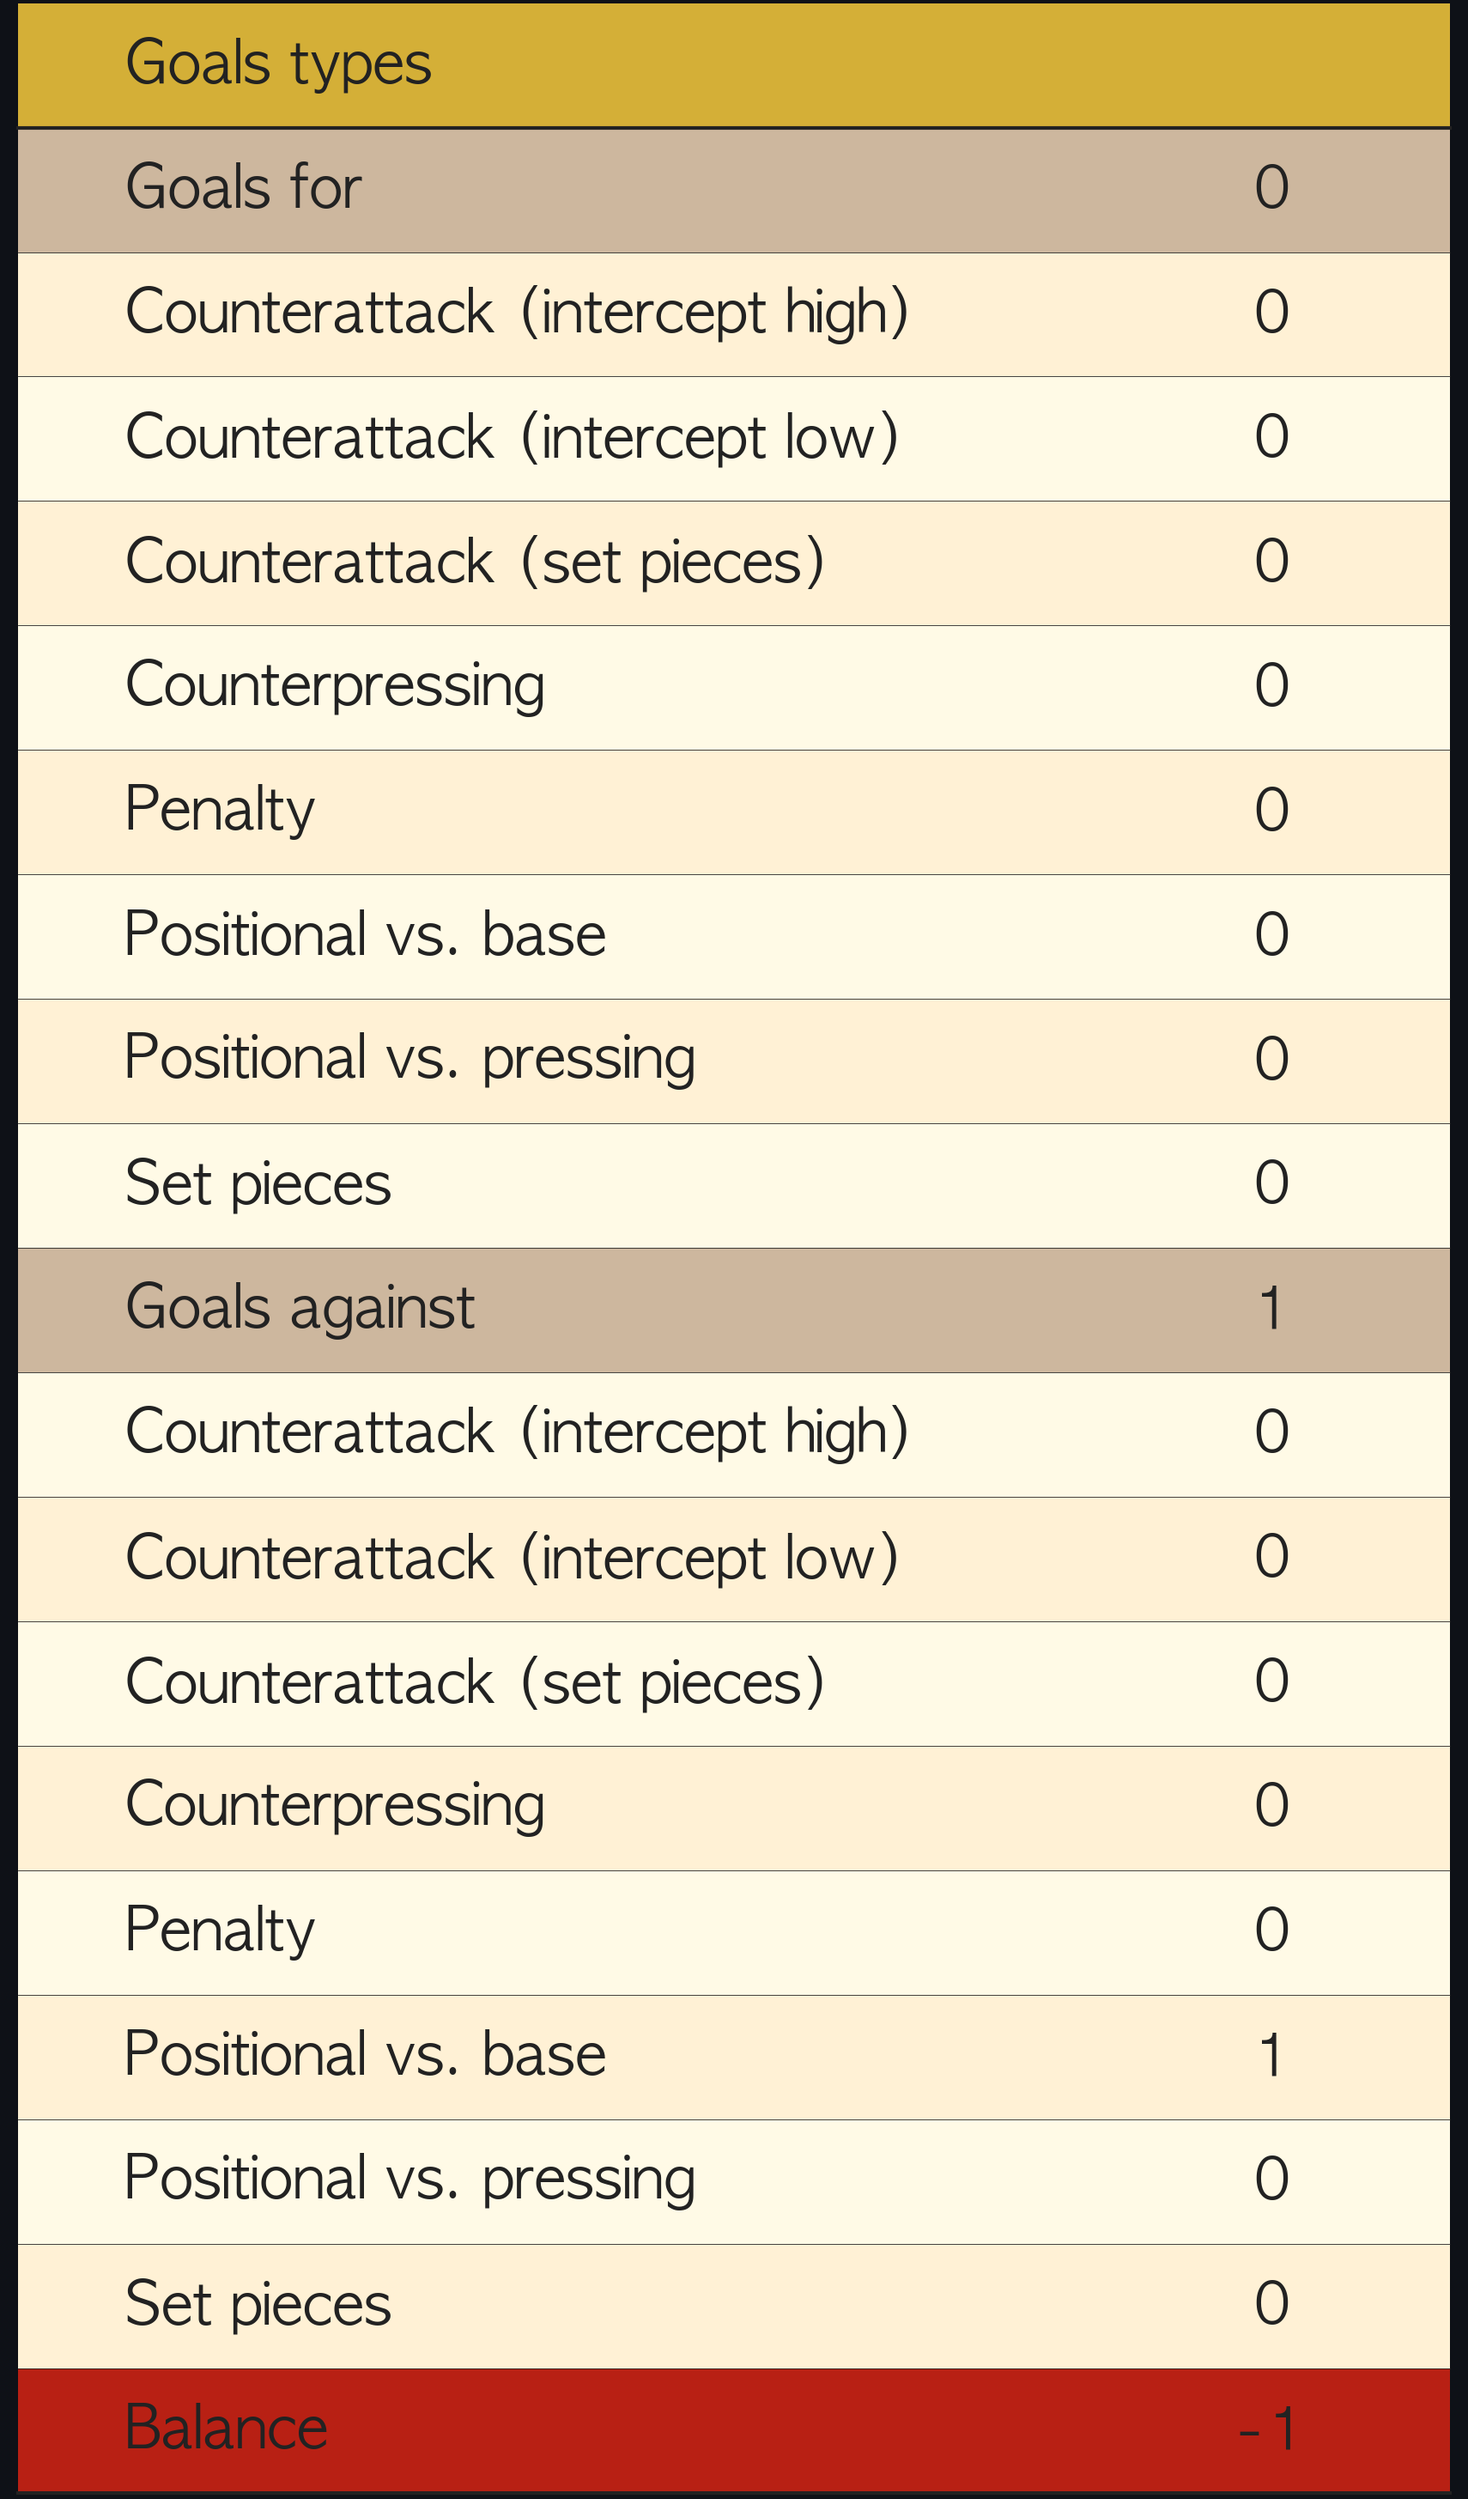
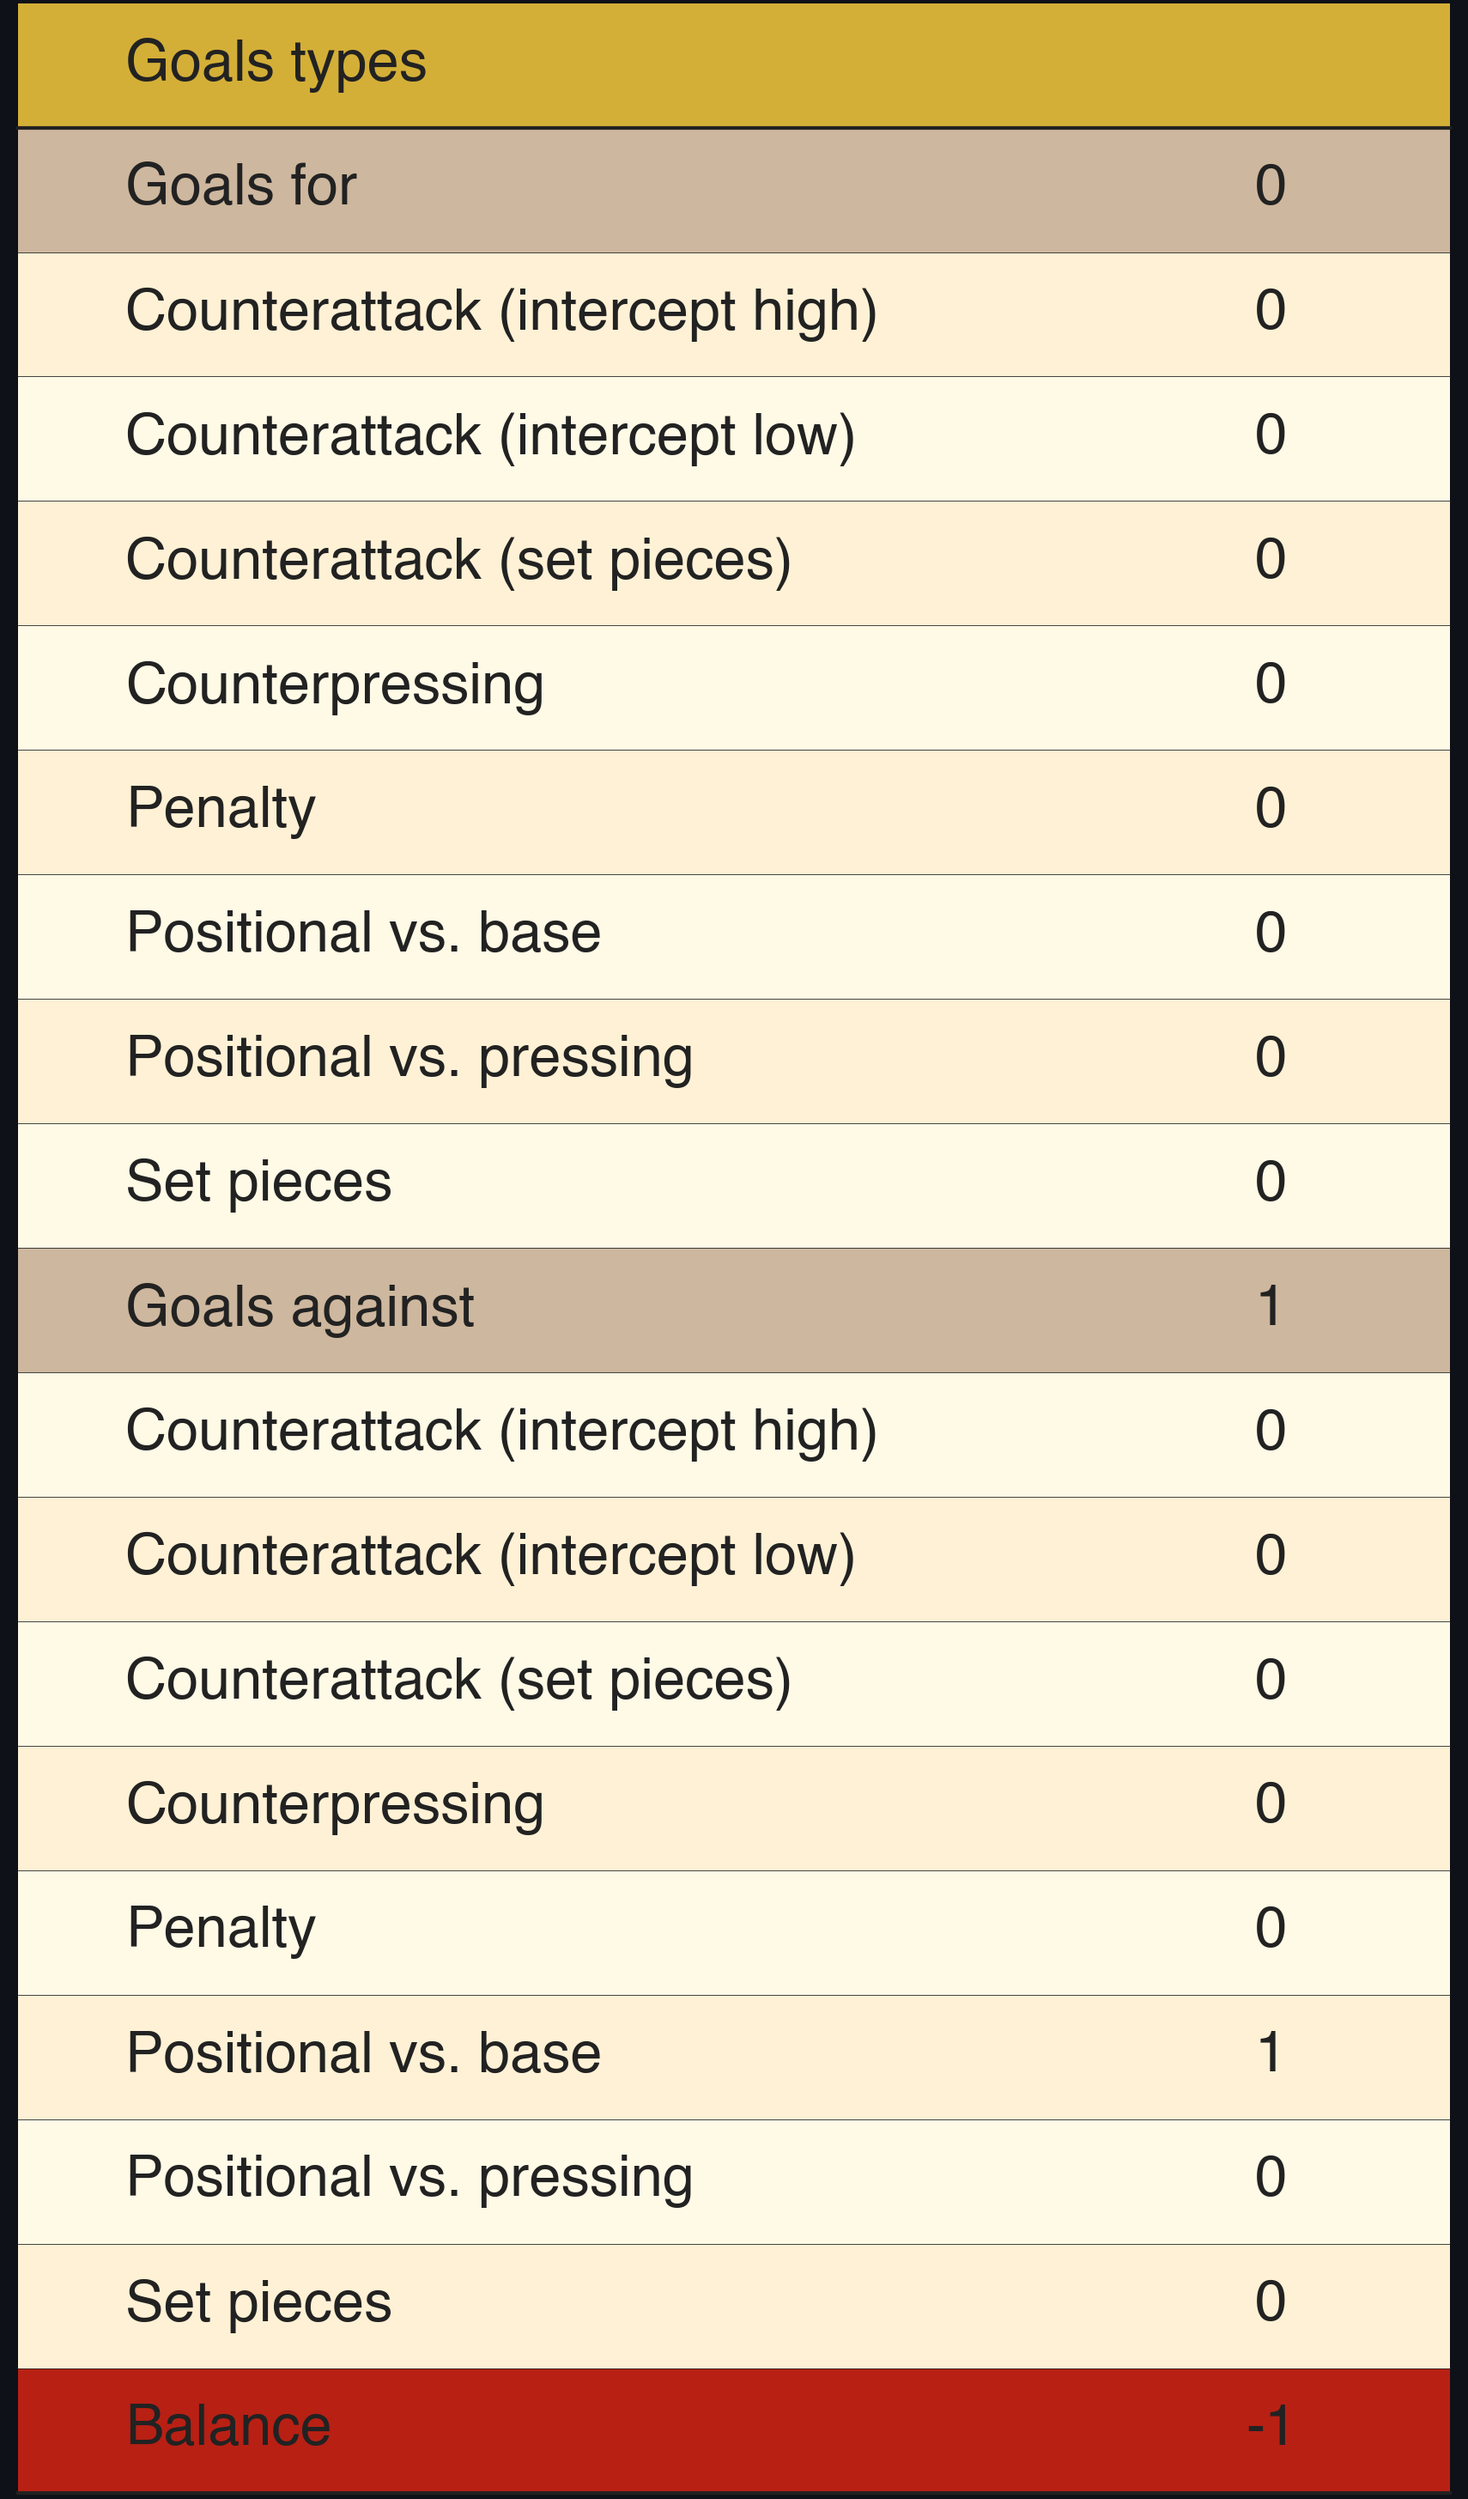
fix req

diff --git a/plots_and_charts/benchmark_chart.py b/plots_and_charts/benchmark_chart.py
@@ -64,15 +64,15 @@ class BenchmarkChart:
         plot_data["alpha"] = np.select(conditions, values)
         # edge color
         if team == self.team_for:
-            values = [str(Constants.TEAM_AGAINST_COLOR), str(Constants.TEAM_FOR_COLOR)]
+            values = [Constants.TEAM_AGAINST_COLOR, Constants.TEAM_FOR_COLOR]
         else:
-            values = [str(Constants.TEAM_FOR_COLOR), str(Constants.TEAM_AGAINST_COLOR)]
+            values = [Constants.TEAM_FOR_COLOR, Constants.TEAM_AGAINST_COLOR]
         plot_data["ec"] = np.select(conditions, values)
         # fill color
         if team == self.team_for:
-            values = [str(Constants.TEAM_FOR_COLOR), str(Constants.TEAM_AGAINST_COLOR)]
+            values = [Constants.TEAM_FOR_COLOR, Constants.TEAM_AGAINST_COLOR]
         else:
-            values = [str(Constants.TEAM_AGAINST_COLOR), str(Constants.TEAM_FOR_COLOR)]
+            values = [Constants.TEAM_AGAINST_COLOR, Constants.TEAM_FOR_COLOR]
         plot_data["color"] = np.select(conditions, values)
         # size
         values = [5000, 500]

diff --git a/streamlit_app.py b/streamlit_app.py
@@ -160,7 +160,7 @@ if match:
     with col2:
         st.pyplot(throw_ins_tables.plot_throw_ins(directory=directory, team_for=False))
 
-    toc.header("Recoveries Statse")
+    toc.header("Recoveries Stats")
     col, _, _, _ = st.columns(4)
     with col:
         recoveries_tables = RecoveriesTables(match_events, team_for=team_name)

diff --git a/constants.py b/constants.py
@@ -45,7 +45,7 @@ class Constants:
         "sbred": "#E21017",
     }
 
-    FONT = "AppleGothic"#"Avenir"
+    FONT = "Helvetica"#"Avenir"
     STREAMLIT_COLOR = '#0E1117'
     TEXT_COLOR = '#222222'
     BACKGROUND_COLOR = '#d4af37'
